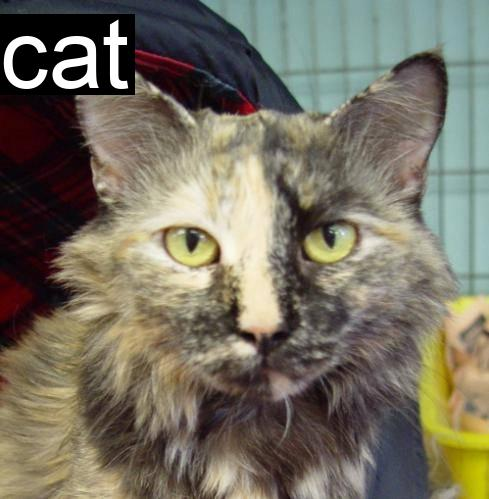
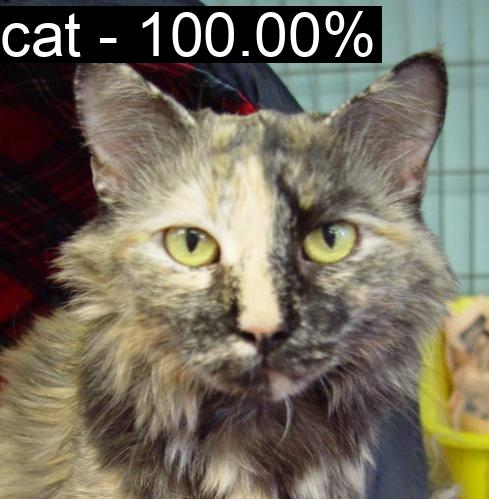
Update prob of class

Changed region(s): [[0.0, 0.0, 0.7975, 0.2104]]

diff --git a/infer.py b/infer.py
@@ -11,7 +11,7 @@ from config import *
 def draw_to_image(image: Image, text: str):
     draw = ImageDraw.Draw(image)
     h, w = image.size
-    size = min(h, w) // 5
+    size = min(h, w) // 8
     font = ImageFont.truetype('asset/arial.ttf', size)
     left, top, right, bottom = draw.textbbox((0, 0), text, font = font)
     draw.rectangle((left-5, top-5, right+5, bottom+5), fill="black")
@@ -43,9 +43,11 @@ def test(config):
                 exit()
             image = Image.open(os.path.join(config['path'], imagelink))
             inputs = transform(image).unsqueeze(0).to(device)
-            results = torch.argmax(model(inputs)).cpu()
+            output = model(inputs).cpu()
+            results = torch.argmax(output)
+            prob = output[0][results]
             classname = config['class']['name'][results]
-            image = draw_to_image(image, classname)
+            image = draw_to_image(image, classname + " - " + str(prob))
             image.save(os.path.join(config['result_path'], imagelink))
         print(f"Image saved to {config['result_path']}")
          
@@ -53,14 +55,20 @@ def test(config):
         print(f"Starting infer 1 images")
         image = Image.open(config['path'])
         inputs = transform(image).unsqueeze(0).to(device)
-        results = torch.argmax(model(inputs)).cpu()
+        output = model(inputs).cpu()
+        results = torch.argmax(output)
+        prob = float(output[0][results])
         classname = config['class']['name'][results]
-        image = draw_to_image(image, classname)
+        image = draw_to_image(image, f"{classname} - {prob * 100:.2f}%")
         image.save(os.path.join(config['result_path'], config['path'].split('/')[-1]))
         print(f"Image saved to {os.path.join(config['result_path'], config['path'].split('/')[-1])}")
+
+    elif not os.path.exists(config['path']):
+        print("Infer path doesn't exist")
+        exit()
     else:  
         print("Save path invalid")
         exit()
 
 if __name__ == '__main__':
-    test(TESTING__CFG)
+    test(TESTING_CFG)

diff --git a/config.py b/config.py
@@ -27,16 +27,6 @@ VALID_CFG = {
     'batch_size': 16,
 }
 
-TESTING__CFG = {
-    'path': '/media/mera/Mera/AI/Selfcode/Dogs-Cats-Classification/data/valid/dog/dog.24.jpg', # image path or folder path
-    'class': CLASS_INFO,
-    'image_size': (224, 224),
-    'modelname': 'resnet18',
-    'load_checkpoint': '/media/mera/Mera/AI/Selfcode/Dogs-Cats-Classification/weights/resnet18_final.pth',
-    'result_path': './result'
-}
-
-
 TESTING_CFG = {
     'path': './data/test/', # image path or folder path
     'class': CLASS_INFO,
